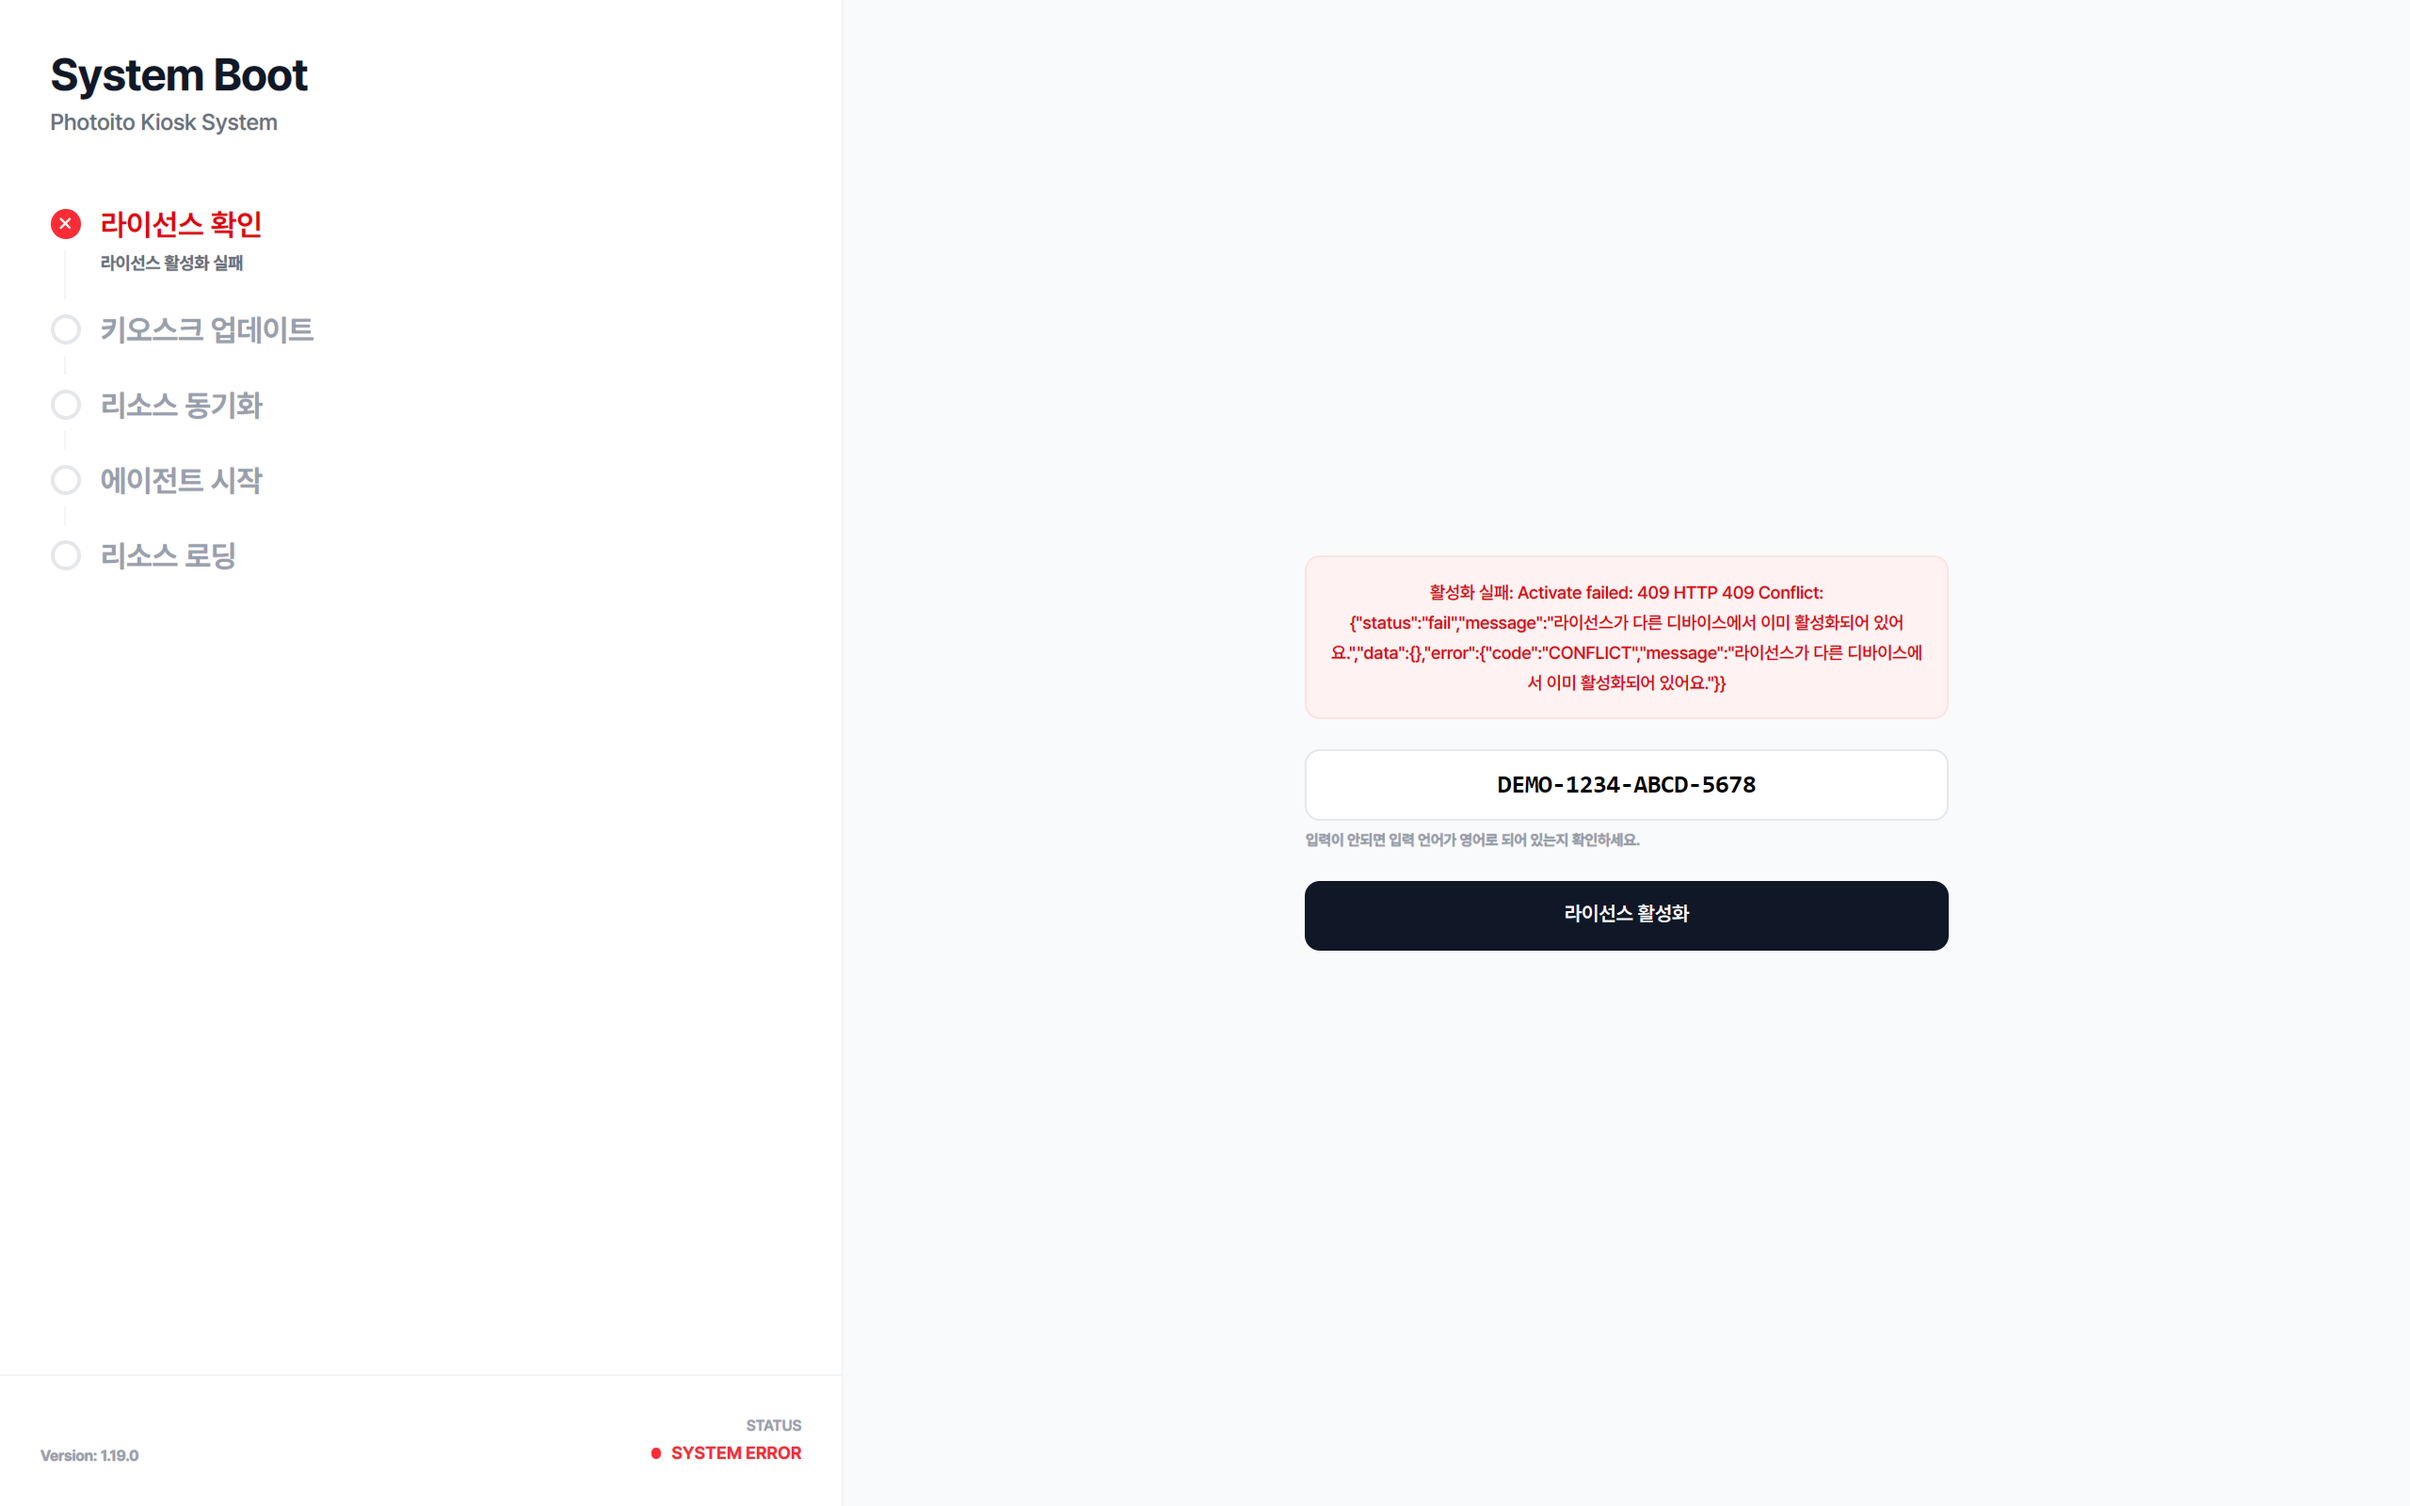
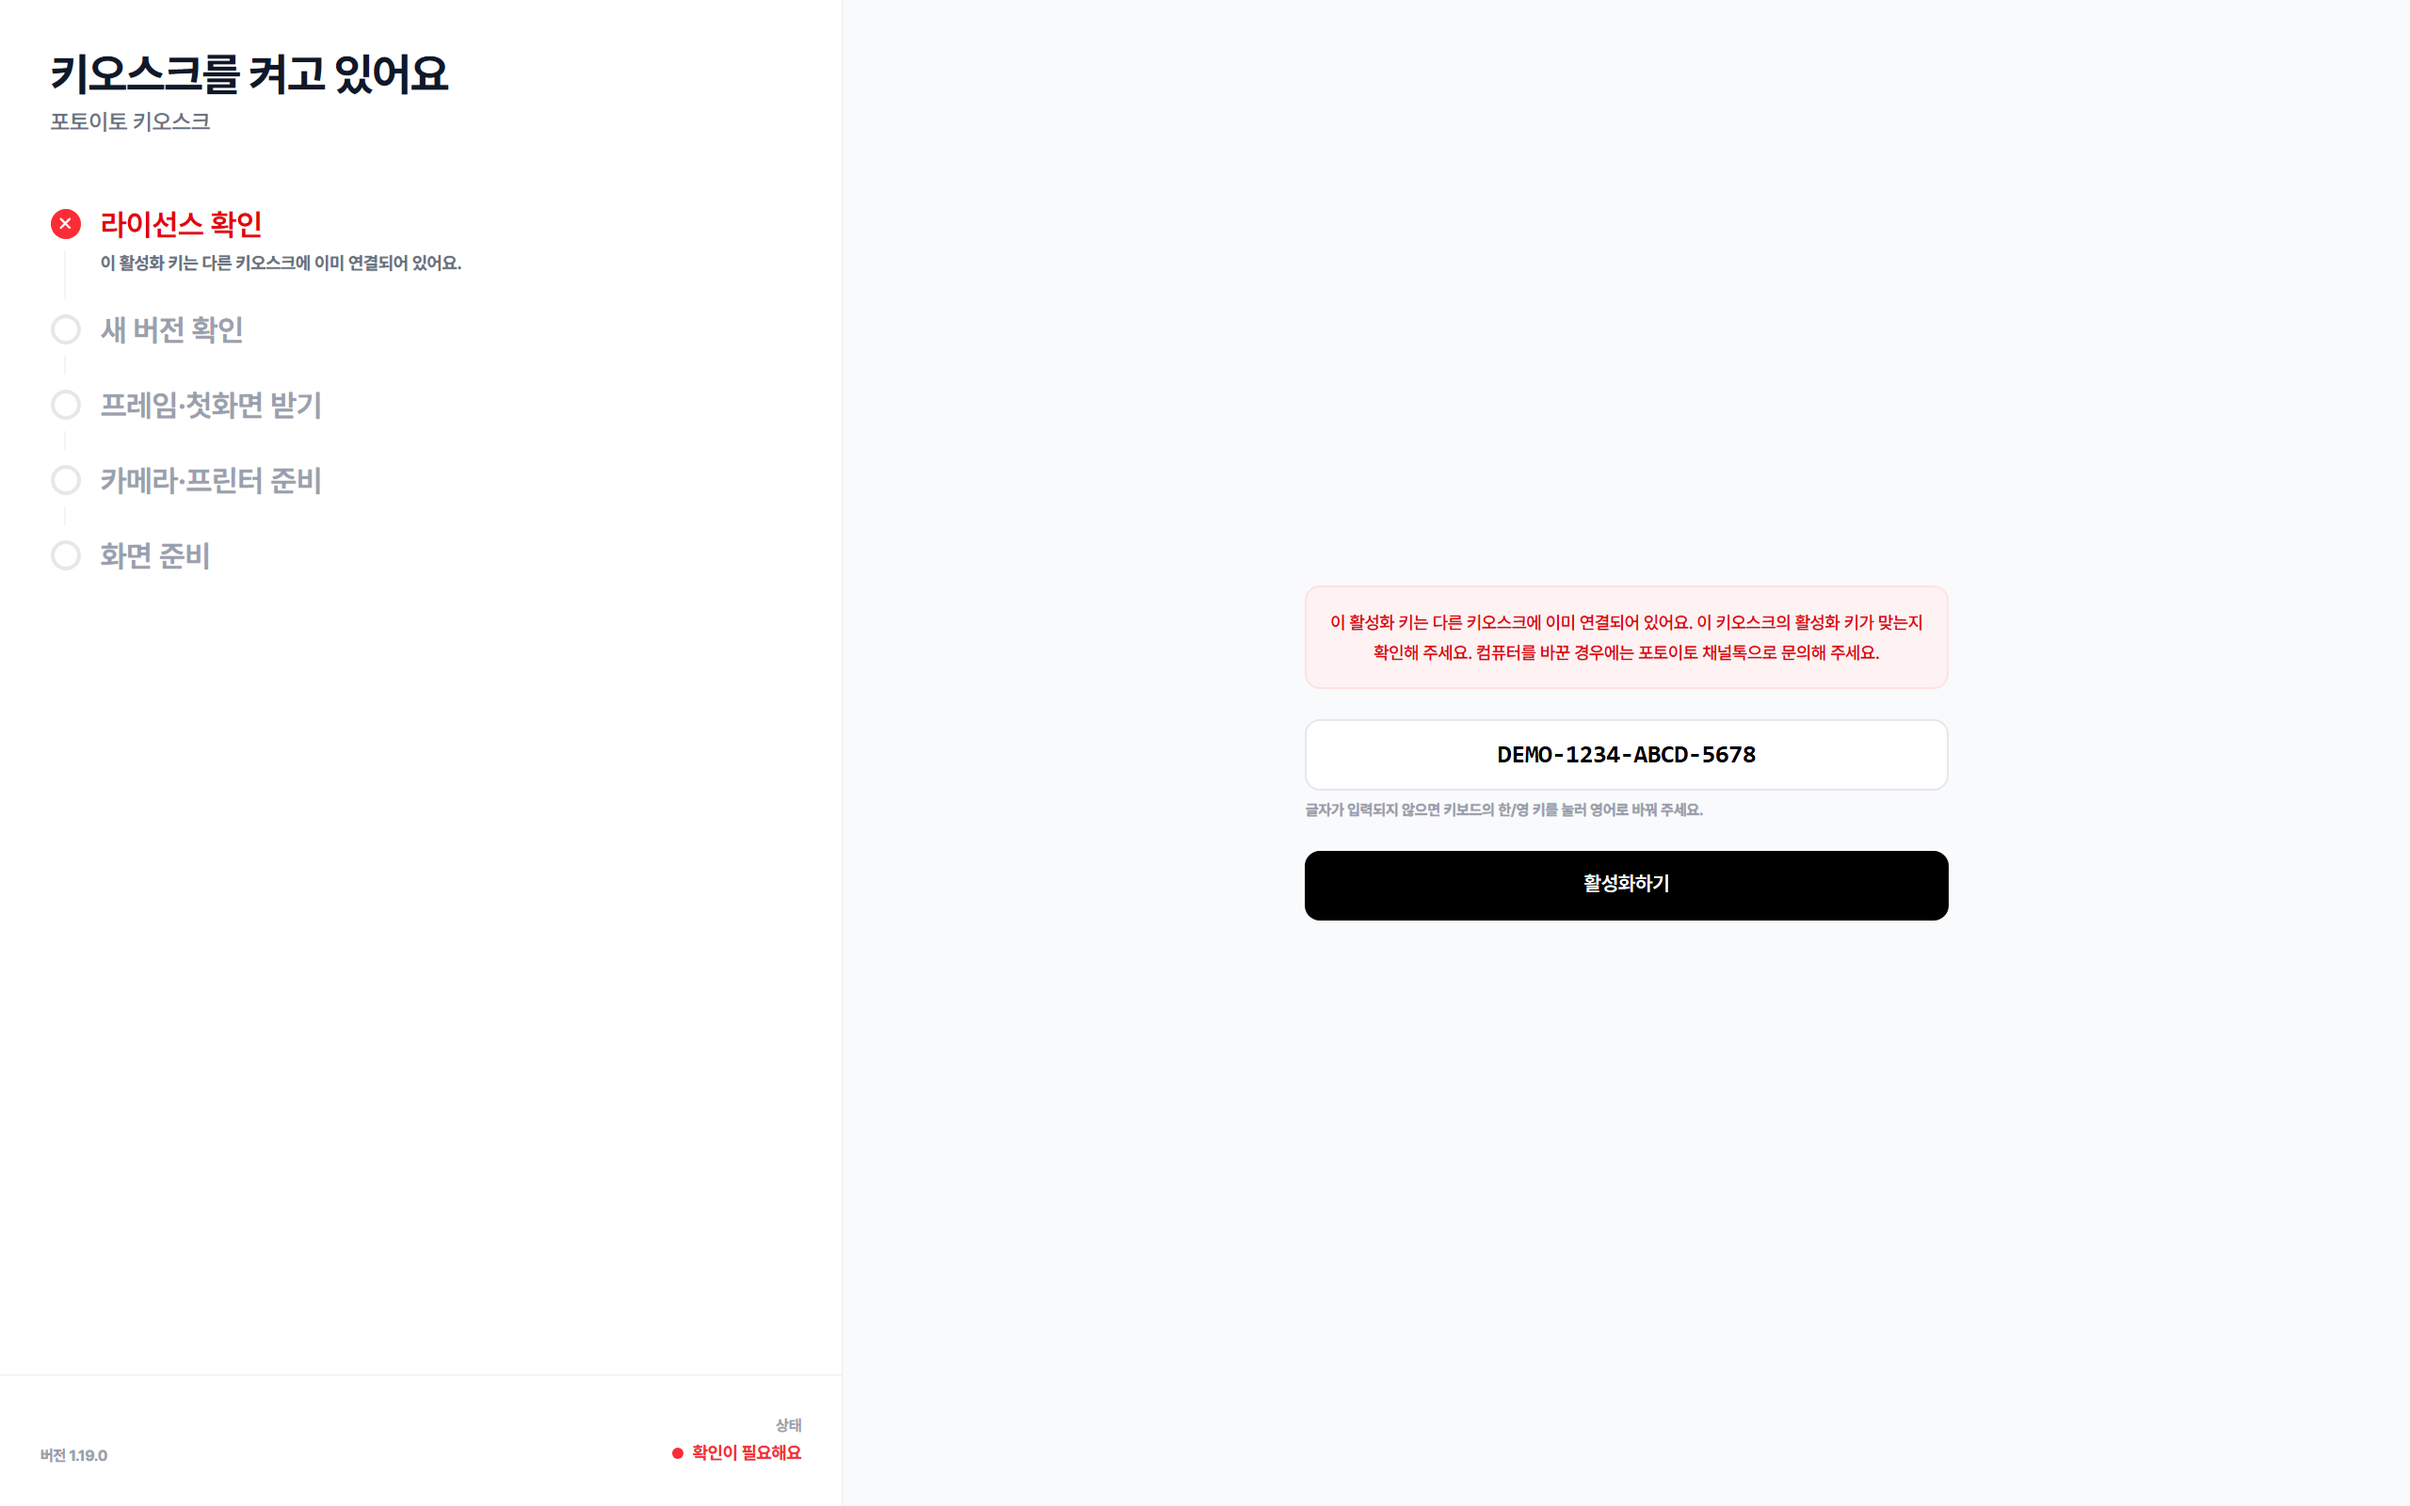
부팅 화면 오류 쪽을 키오스크의 새 문구에 맞춰 다시 씀
- 키오스크 부팅 화면 문구가 한글 안내문으로 바뀜(photo-booth-kiosk fix/boot-friendly-messages)
- 화면 사진 10장을 새 화면으로 다시 찍음, 자동 재확인의 두 경우를 나눠 실음
- 예전 버전 화면용 대조표를 맨 아래에 남김

Claude-Session: https://claude.ai/code/session_01WwJqzCdx2ETeZYY1JcaMig

diff --git a/tools/kiosk/boot.ts b/tools/kiosk/boot.ts
@@ -62,6 +62,11 @@ const CASES: Record<string, () => void> = {
     api.licenseCheck = () => Promise.resolve(invalid("License file not found or corrupted", false));
     api.licenseAttemptSelfHeal = () => Promise.resolve({ recovered: false, action: "wait-network", nextRetryMs: 32000 });
   },
+  // 자동으로 다시 확인하는 중(인터넷은 되는데 서버가 라이선스를 받아 주지 않을 때).
+  "self-heal-server": () => {
+    api.licenseCheck = () => Promise.resolve(invalid("License file not found or corrupted", false));
+    api.licenseAttemptSelfHeal = () => Promise.resolve({ recovered: false, action: "reactivate", nextRetryMs: 60000 });
+  },
   // 필수 프로그램 파일이 없다.
   blocked: () => {
     api.checkRequiredBinaries = () => Promise.resolve({ allPresent: false, missing: ["camera-agent.exe"] });
